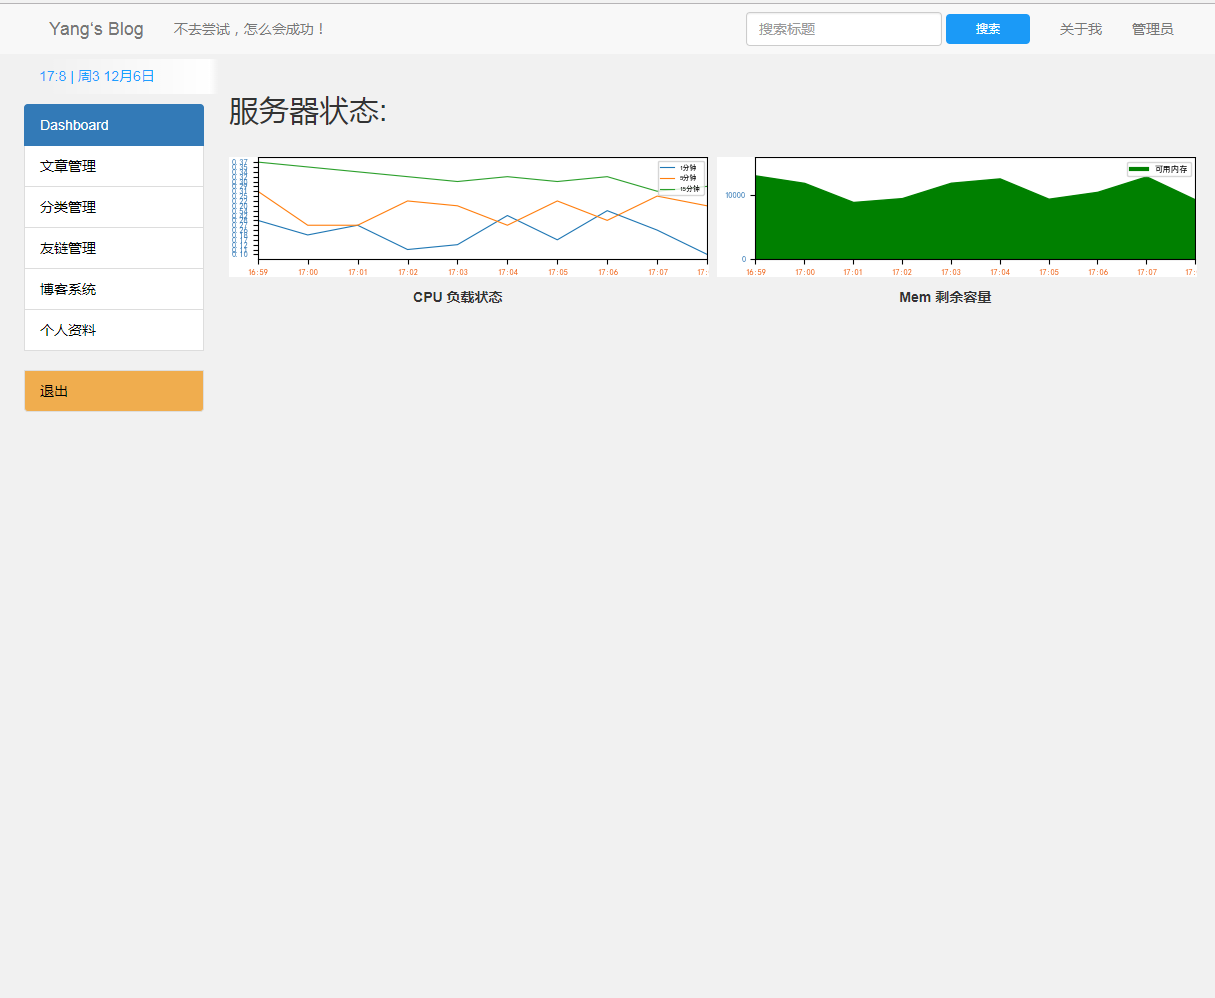
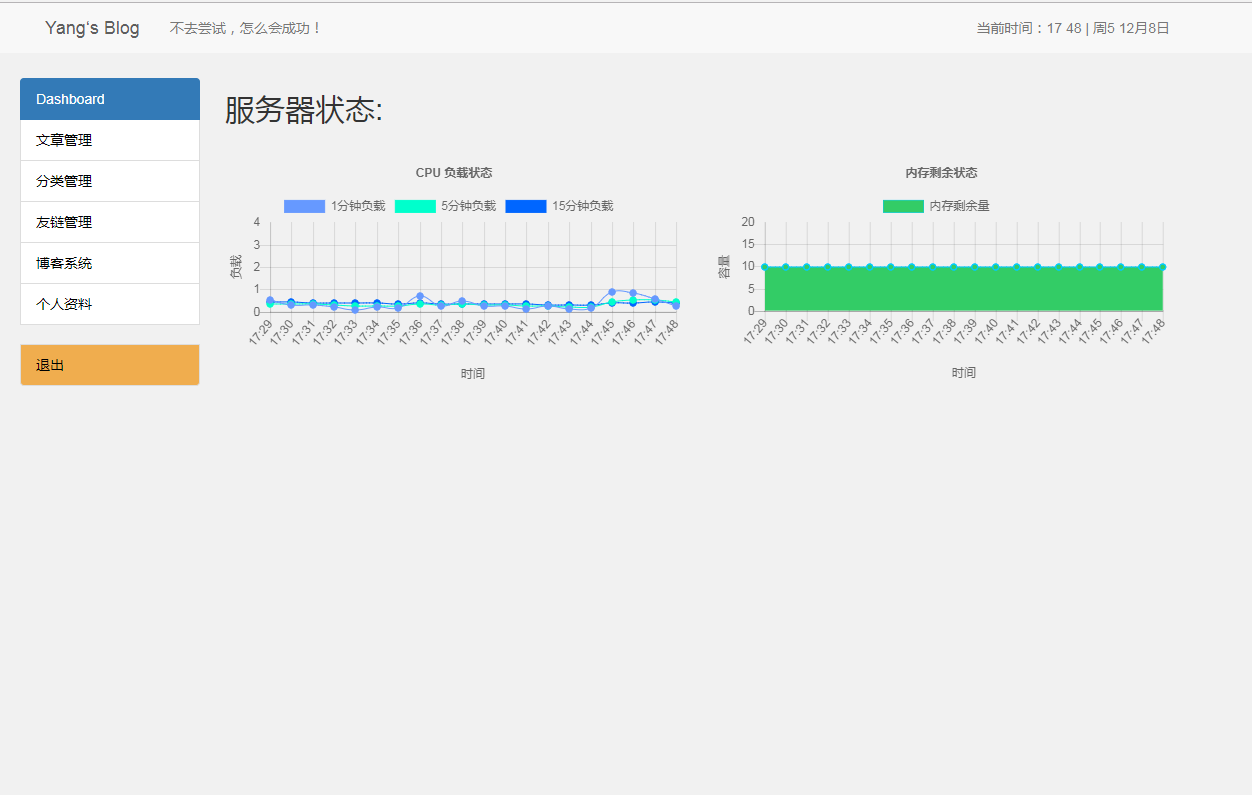
更新使用说明[A

diff --git a/README.md b/README.md
@@ -12,7 +12,7 @@
 * 按钮 Buttons
 * 数据库 Mysql + Peewee
 * 图片存储  QiniuYun 对象存储
-* 画图使用 matplotlib
+* 前端使用 Chart.js 展示图
 
 ## 实现功能
 * /index 首页 文章列表，分页展示
@@ -37,7 +37,7 @@
 * /admin/profile 管理个人资料
 * /admin/blog 管理博客的基本设置
 * /admin/flink 管理友链设置
-* /admin/status 生成状态图片，前端Ajax 定时轮训此地址获取最新图片，目前为1分钟一次
+* /admin/api/v1/status 获取服务器状态，前端Ajax 定时轮训此地址获取最新数据，目前为半分钟一次
 * 先完成这些吧，暂时不会经常更新了
 
 ## 感谢
@@ -47,7 +47,6 @@
 ## 使用模块
 * peewee
 * qiniu
-* matplotlib
 
 ## 部署方法
 * config.py 中填写自己的qiniu对象存储的ACCESS_KEY，SECRET_KEY，BUCKET_NAME，BASE_STATIC_URL
@@ -106,7 +105,7 @@ inster_data(save_status)
 * page
 ![page](https://github.com/lgphone/YangBlog/blob/master/doc/pic/page.png)
 * admin article
-![admin index](https://github.com/lgphone/YangBlog/blob/master/doc/pic/admin_article.png)
+![admin article](https://github.com/lgphone/YangBlog/blob/master/doc/pic/admin_article.png)
 * add article
 ![add article](https://github.com/lgphone/YangBlog/blob/master/doc/pic/article_add.png)
 * del article
